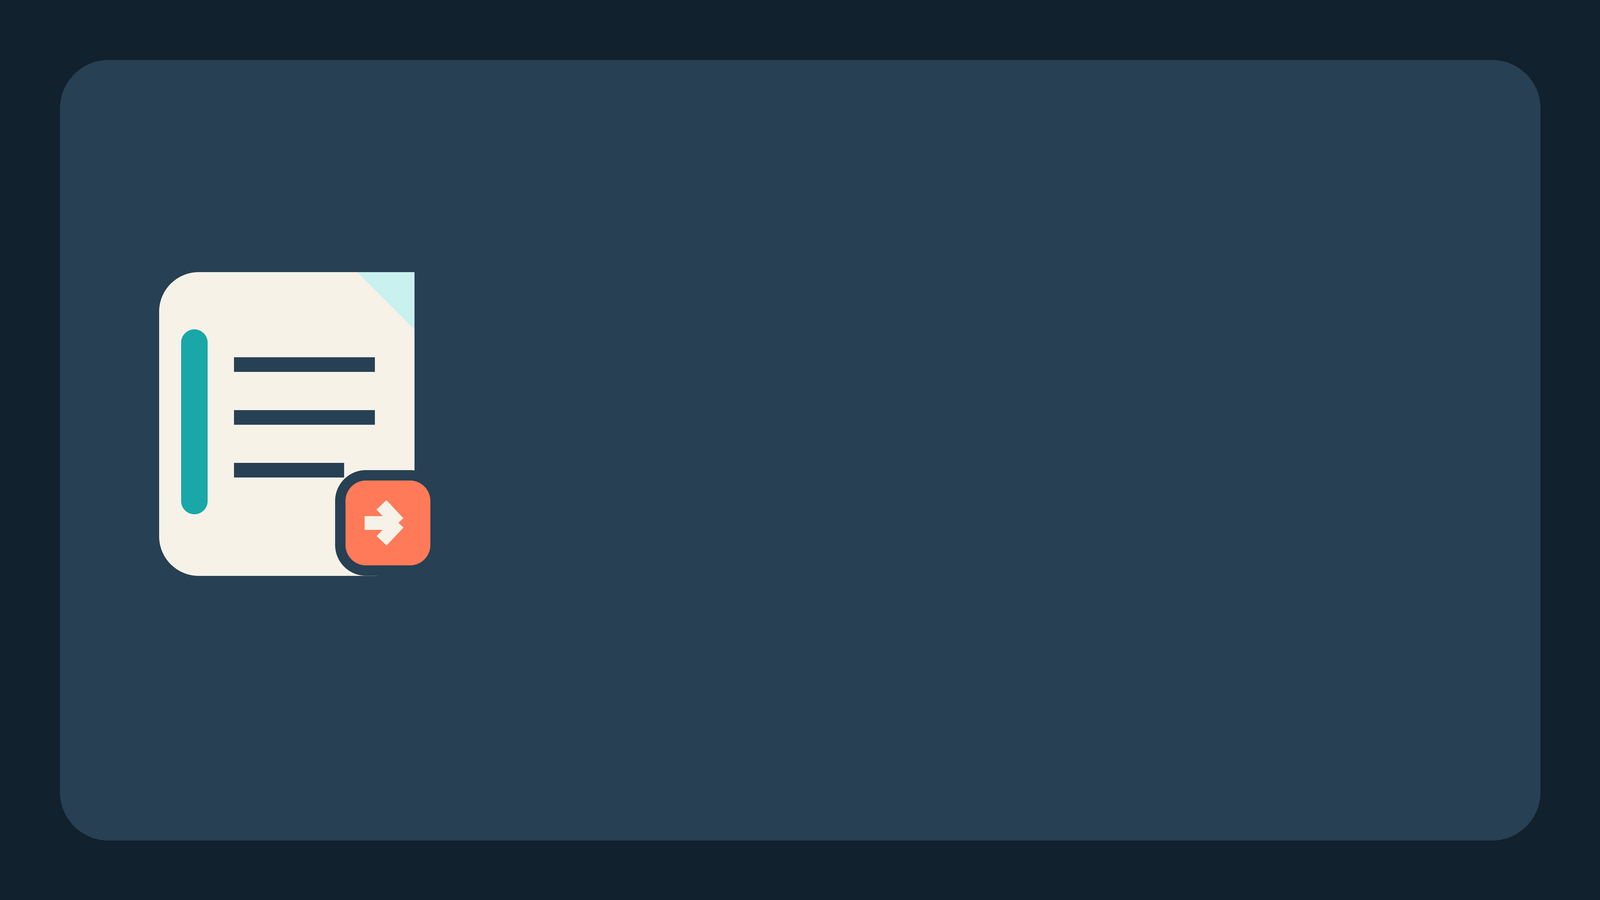
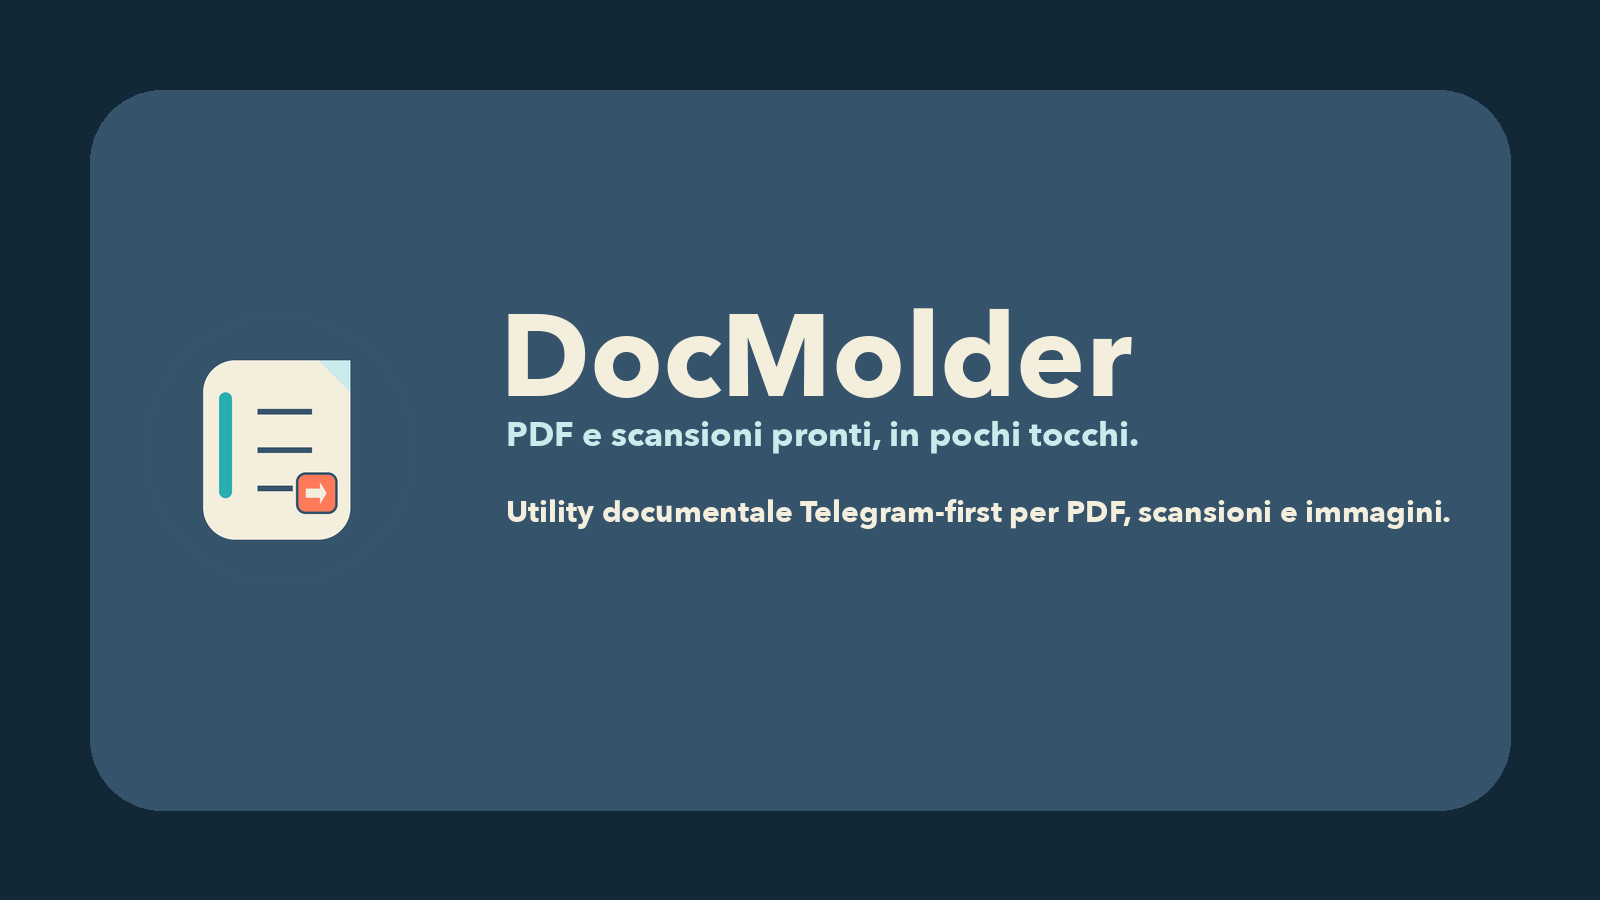
Refine approved DocMolder brand assets

diff --git a/src/docmolder/brand_assets.py b/src/docmolder/brand_assets.py
@@ -2,171 +2,124 @@ from __future__ import annotations
 
 from pathlib import Path
 
-from PIL import Image, ImageDraw
+from PIL import Image, ImageDraw, ImageFont
 
-from docmolder.branding import BRAND_COLORS
-
-
-def _rounded_rectangle(draw: ImageDraw.ImageDraw, box: tuple[int, int, int, int], radius: int, fill: str) -> None:
-    draw.rounded_rectangle(box, radius=radius, fill=fill)
+from docmolder.branding import BRAND_COLORS, BRAND_NAME, BRAND_TAGLINE
 
 
-def _draw_mark(draw: ImageDraw.ImageDraw, size: int) -> None:
-    card_pad = int(size * 0.08)
-    card_radius = int(size * 0.22)
-    card_box = (card_pad, card_pad, size - card_pad, size - card_pad)
-    _rounded_rectangle(draw, card_box, radius=card_radius, fill=BRAND_COLORS["slate"])
+PROJECT_ROOT = Path(__file__).resolve().parents[2]
+SOURCE_MARK = PROJECT_ROOT / "assets" / "brand" / "docmolder-mark-master.png"
 
-    _rounded_rectangle(
-        draw,
-        (
-            int(size * 0.18),
-            int(size * 0.13),
-            int(size * 0.76),
-            int(size * 0.82),
-        ),
-        radius=int(size * 0.09),
-        fill=BRAND_COLORS["paper"],
+
+def _load_font(size: int, *, bold: bool = False, family: str = "avenir") -> ImageFont.FreeTypeFont | ImageFont.ImageFont:
+    family_candidates: dict[str, tuple[str, ...]] = {
+        "avenir": ("/System/Library/Fonts/Avenir Next.ttc",),
+        "helvetica": ("/System/Library/Fonts/HelveticaNeue.ttc",),
+        "sf": ("/System/Library/Fonts/SFNS.ttf",),
+    }
+    fallback = (
+        "/System/Library/Fonts/Supplemental/Arial Bold.ttf",
+        "/System/Library/Fonts/Supplemental/Arial.ttf",
     )
+    candidates = (*family_candidates.get(family, family_candidates["avenir"]), *fallback)
+    for path in candidates:
+        try:
+            return ImageFont.truetype(path, size=size)
+        except OSError:
+            continue
+    return ImageFont.load_default()
 
-    sheet_left = int(size * 0.18)
-    sheet_top = int(size * 0.13)
-    sheet_right = int(size * 0.76)
-    sheet_bottom = int(size * 0.82)
-    fold_size = int(size * 0.13)
 
-    draw.polygon(
-        [
-            (sheet_right - fold_size, sheet_top),
-            (sheet_right, sheet_top),
-            (sheet_right, sheet_top + fold_size),
-        ],
-        fill=BRAND_COLORS["mist"],
-    )
+def _load_source_mark(size: int) -> Image.Image:
+    return Image.open(SOURCE_MARK).convert("RGBA").resize((size, size), Image.Resampling.LANCZOS)
 
-    accent_left = int(size * 0.23)
-    accent_right = int(size * 0.29)
-    accent_top = int(size * 0.26)
-    accent_bottom = int(size * 0.68)
-    _rounded_rectangle(
-        draw,
-        (accent_left, accent_top, accent_right, accent_bottom),
-        radius=int(size * 0.03),
-        fill=BRAND_COLORS["teal"],
-    )
 
-    stroke_width = max(12, size // 30)
-    line_left = int(size * 0.35)
-    line_right = int(size * 0.67)
-    draw.line(
-        [(line_left, int(size * 0.34)), (line_right, int(size * 0.34))],
-        fill=BRAND_COLORS["slate"],
-        width=stroke_width,
-    )
-    draw.line(
-        [(line_left, int(size * 0.46)), (line_right, int(size * 0.46))],
-        fill=BRAND_COLORS["slate"],
-        width=stroke_width,
-    )
-    draw.line(
-        [(line_left, int(size * 0.58)), (int(size * 0.60), int(size * 0.58))],
-        fill=BRAND_COLORS["slate"],
-        width=stroke_width,
-    )
+def render_circle_variant(size: int = 1024) -> Image.Image:
+    return _load_source_mark(size)
 
-    badge_size = int(size * 0.24)
-    badge_left = int(size * 0.58)
-    badge_top = int(size * 0.58)
-    _rounded_rectangle(
-        draw,
-        (badge_left, badge_top, badge_left + badge_size, badge_top + badge_size),
-        radius=int(size * 0.07),
-        fill=BRAND_COLORS["coral"],
-    )
-    border_width = max(12, size // 42)
+
+def render_square_variant(size: int = 1024) -> Image.Image:
+    image = Image.new("RGBA", (size, size), BRAND_COLORS["slate"])
+    mark = _load_source_mark(int(size * 0.82))
+    image.alpha_composite(mark, ((size - mark.width) // 2, (size - mark.height) // 2))
+    return image
+
+
+def render_ios_variant(size: int = 1024) -> Image.Image:
+    canvas = Image.new("RGBA", (size, size), (0, 0, 0, 0))
+    draw = ImageDraw.Draw(canvas)
+    pad = int(size * 0.04)
     draw.rounded_rectangle(
-        (badge_left, badge_top, badge_left + badge_size, badge_top + badge_size),
-        radius=int(size * 0.07),
-        outline=BRAND_COLORS["slate"],
-        width=border_width,
+        (pad, pad, size - pad, size - pad),
+        radius=int(size * 0.22),
+        fill=BRAND_COLORS["slate"],
     )
-
-    arrow_width = max(12, size // 32)
-    arrow_left = badge_left + int(badge_size * 0.28)
-    arrow_right = badge_left + int(badge_size * 0.72)
-    arrow_top = badge_top + int(badge_size * 0.33)
-    arrow_mid = badge_top + badge_size // 2
-    arrow_bottom = badge_top + int(badge_size * 0.67)
-    draw.line(
-        [
-            (arrow_left, arrow_mid),
-            (arrow_right - int(badge_size * 0.12), arrow_mid),
-        ],
-        fill=BRAND_COLORS["paper"],
-        width=arrow_width,
-    )
-    draw.line(
-        [
-            (arrow_right - int(badge_size * 0.12), arrow_mid),
-            (arrow_right - int(badge_size * 0.28), arrow_top),
-        ],
-        fill=BRAND_COLORS["paper"],
-        width=arrow_width,
-    )
-    draw.line(
-        [
-            (arrow_right - int(badge_size * 0.12), arrow_mid),
-            (arrow_right - int(badge_size * 0.28), arrow_bottom),
-        ],
-        fill=BRAND_COLORS["paper"],
-        width=arrow_width,
-    )
+    mark = _load_source_mark(int(size * 0.76))
+    canvas.alpha_composite(mark, ((size - mark.width) // 2, (size - mark.height) // 2))
+    return canvas
 
 
-def render_mark_png(size: int = 1024, background: str | None = None) -> Image.Image:
-    oversample = 4
-    render_size = size * oversample
-    image = Image.new("RGBA", (render_size, render_size), color=background or BRAND_COLORS["ink"])
+def render_horizontal_logo(size: tuple[int, int] = (1800, 560), *, font_family: str = "avenir") -> Image.Image:
+    width, height = size
+    image = Image.new("RGBA", size, BRAND_COLORS["ink"])
+    mark = _load_source_mark(340)
+    image.alpha_composite(mark, (96, 108))
+
     draw = ImageDraw.Draw(image)
-    _draw_mark(draw, render_size)
-    return image.resize((size, size), Image.Resampling.LANCZOS)
+    title_font = _load_font(128, bold=True, family=font_family)
+    subtitle_font = _load_font(34, bold=False, family=font_family)
+    draw.text((500, 150), BRAND_NAME, fill=BRAND_COLORS["paper"], font=title_font)
+    draw.text((506, 286), BRAND_TAGLINE, fill=BRAND_COLORS["mist"], font=subtitle_font)
+    return image
 
 
 def render_share_card(size: tuple[int, int] = (1600, 900)) -> Image.Image:
     width, height = size
-    oversample = 2
-    render_width = width * oversample
-    render_height = height * oversample
-    image = Image.new("RGBA", (render_width, render_height), color=BRAND_COLORS["ink"])
+    image = Image.new("RGBA", (width, height), BRAND_COLORS["ink"])
     draw = ImageDraw.Draw(image)
     draw.rounded_rectangle(
-        (120, 120, render_width - 120, render_height - 120),
-        radius=96,
+        (90, 90, width - 90, height - 90),
+        radius=72,
         fill=BRAND_COLORS["slate"],
     )
-    mark = render_mark_png(size=440 * oversample, background=BRAND_COLORS["slate"])
-    image.alpha_composite(mark, (160, 430))
-    return image.resize(size, Image.Resampling.LANCZOS)
+    mark = _load_source_mark(320)
+    image.alpha_composite(mark, (120, 290))
+
+    title_font = _load_font(116, bold=True, family="avenir")
+    subtitle_font = _load_font(34, family="avenir")
+    body_font = _load_font(30, family="avenir")
+    draw.text((500, 280), BRAND_NAME, fill=BRAND_COLORS["paper"], font=title_font)
+    draw.text((506, 412), BRAND_TAGLINE, fill=BRAND_COLORS["mist"], font=subtitle_font)
+    draw.text(
+        (506, 492),
+        "Utility documentale Telegram-first per PDF, scansioni e immagini.",
+        fill=BRAND_COLORS["paper"],
+        font=body_font,
+    )
+    return image
 
 
 def render_brand_assets(output_dir: Path) -> list[Path]:
     output_dir.mkdir(parents=True, exist_ok=True)
     generated_paths: list[Path] = []
 
-    telegram_profile = output_dir / "docmolder-telegram-profile.png"
-    render_mark_png(size=2048).save(telegram_profile, format="PNG")
-    generated_paths.append(telegram_profile)
+    named_images: tuple[tuple[str, Image.Image], ...] = (
+        ("docmolder-logo-square.png", render_square_variant(size=2048)),
+        ("docmolder-logo-ios-rounded.png", render_ios_variant(size=2048)),
+        ("docmolder-logo-telegram-circle.png", render_circle_variant(size=2048)),
+        ("docmolder-telegram-profile.png", render_circle_variant(size=2048)),
+        ("docmolder-app-icon.png", render_ios_variant(size=1024)),
+        ("docmolder-logo-horizontal.png", render_horizontal_logo(font_family="avenir")),
+        ("docmolder-share-card.png", render_share_card()),
+    )
+
+    for filename, image in named_images:
+        path = output_dir / filename
+        image.save(path, format="PNG")
+        generated_paths.append(path)
 
     telegram_profile_jpg = output_dir / "docmolder-telegram-profile.jpg"
-    render_mark_png(size=2048).convert("RGB").save(telegram_profile_jpg, format="JPEG", quality=98)
+    render_circle_variant(size=2048).convert("RGB").save(telegram_profile_jpg, format="JPEG", quality=98)
     generated_paths.append(telegram_profile_jpg)
-
-    app_icon = output_dir / "docmolder-app-icon.png"
-    render_mark_png(size=1024).save(app_icon, format="PNG")
-    generated_paths.append(app_icon)
-
-    share_card = output_dir / "docmolder-share-card.png"
-    render_share_card().save(share_card, format="PNG")
-    generated_paths.append(share_card)
 
     return generated_paths

diff --git a/src/docmolder/branding.py b/src/docmolder/branding.py
@@ -9,11 +9,11 @@ BRAND_TAGLINE = "PDF e scansioni pronti, in pochi tocchi."
 BRAND_VOICE = "utility professionale, smart e amichevole"
 
 BRAND_COLORS: dict[str, str] = {
-    "ink": "#11212D",
-    "slate": "#274053",
-    "teal": "#19A7A8",
-    "mist": "#C9F1F0",
-    "paper": "#F6F2E8",
+    "ink": "#132836",
+    "slate": "#35536B",
+    "teal": "#28ADB0",
+    "mist": "#CBEAEC",
+    "paper": "#F4EEDD",
     "coral": "#FF7A59",
 }
 

diff --git a/tests/test_brand_assets.py b/tests/test_brand_assets.py
@@ -18,9 +18,13 @@ class BrandAssetsTest(unittest.TestCase):
             generated = render_brand_assets(output_dir)
 
             expected_names = {
+                "docmolder-logo-square.png",
+                "docmolder-logo-ios-rounded.png",
+                "docmolder-logo-telegram-circle.png",
                 "docmolder-telegram-profile.png",
                 "docmolder-telegram-profile.jpg",
                 "docmolder-app-icon.png",
+                "docmolder-logo-horizontal.png",
                 "docmolder-share-card.png",
             }
             self.assertEqual({path.name for path in generated}, expected_names)

diff --git a/docs/BRAND.md b/docs/BRAND.md
@@ -31,25 +31,30 @@ Messaggio chiave:
 
 ### Idea del logo
 
+La direzione definitiva usa un documento astratto, chiaro e leggibile anche in piccolo.
+
 Il marchio combina:
 
-- un foglio/documento con angoli morbidi, per dare affidabilita e accessibilita
-- una piega in alto, per richiamare il documento in modo immediato
-- un accento circolare con freccia, per suggerire trasformazione, passaggio rapido e output pronto
+- un foglio con angoli morbidi e piega in alto, per comunicare subito il dominio documentale
+- una barra teal verticale, come tratto distintivo e segnale di precisione
+- un badge corallo con freccia, per suggerire trasformazione rapida e output pronto
 
 ### Palette
 
-- `Ink` `#11212D`: fondo principale, serio e tecnico
-- `Slate` `#274053`: testo e struttura secondaria
-- `Teal` `#19A7A8`: azione primaria, precisione, stato positivo
-- `Mist` `#C9F1F0`: superfici leggere, supporto e respiro
-- `Paper` `#F6F2E8`: superfici documento
+- `Ink` `#132836`: fondo principale, serio e tecnico
+- `Slate` `#35536B`: testo e struttura secondaria
+- `Teal` `#28ADB0`: azione primaria, precisione, stato positivo
+- `Mist` `#CBEAEC`: superfici leggere, supporto e respiro
+- `Paper` `#F4EEDD`: superfici documento
 - `Coral` `#FF7A59`: accento, callout, freccia di trasformazione
 
 ### Asset in repository
 
-- logo orizzontale: [assets/brand/docmolder-logo.svg](../assets/brand/docmolder-logo.svg)
-- marchio quadrato: [assets/brand/docmolder-mark.svg](../assets/brand/docmolder-mark.svg)
+- sorgente master del marchio: [assets/brand/docmolder-mark-master.png](../assets/brand/docmolder-mark-master.png)
+- logo orizzontale definitivo: [assets/brand/docmolder-logo-horizontal.png](../assets/brand/docmolder-logo-horizontal.png)
+- variante quadrata: [assets/brand/docmolder-logo-square.png](../assets/brand/docmolder-logo-square.png)
+- variante iOS rounded: [assets/brand/docmolder-logo-ios-rounded.png](../assets/brand/docmolder-logo-ios-rounded.png)
+- variante Telegram circle: [assets/brand/docmolder-logo-telegram-circle.png](../assets/brand/docmolder-logo-telegram-circle.png)
 - icone: [assets/brand/icons/pdf.svg](../assets/brand/icons/pdf.svg), [assets/brand/icons/merge.svg](../assets/brand/icons/merge.svg), [assets/brand/icons/compress.svg](../assets/brand/icons/compress.svg), [assets/brand/icons/watermark.svg](../assets/brand/icons/watermark.svg), [assets/brand/icons/scan.svg](../assets/brand/icons/scan.svg)
 - avatar Telegram generato: [assets/brand/docmolder-telegram-profile.png](../assets/brand/docmolder-telegram-profile.png)
 - avatar JPG per Bot API: [assets/brand/docmolder-telegram-profile.jpg](../assets/brand/docmolder-telegram-profile.jpg)